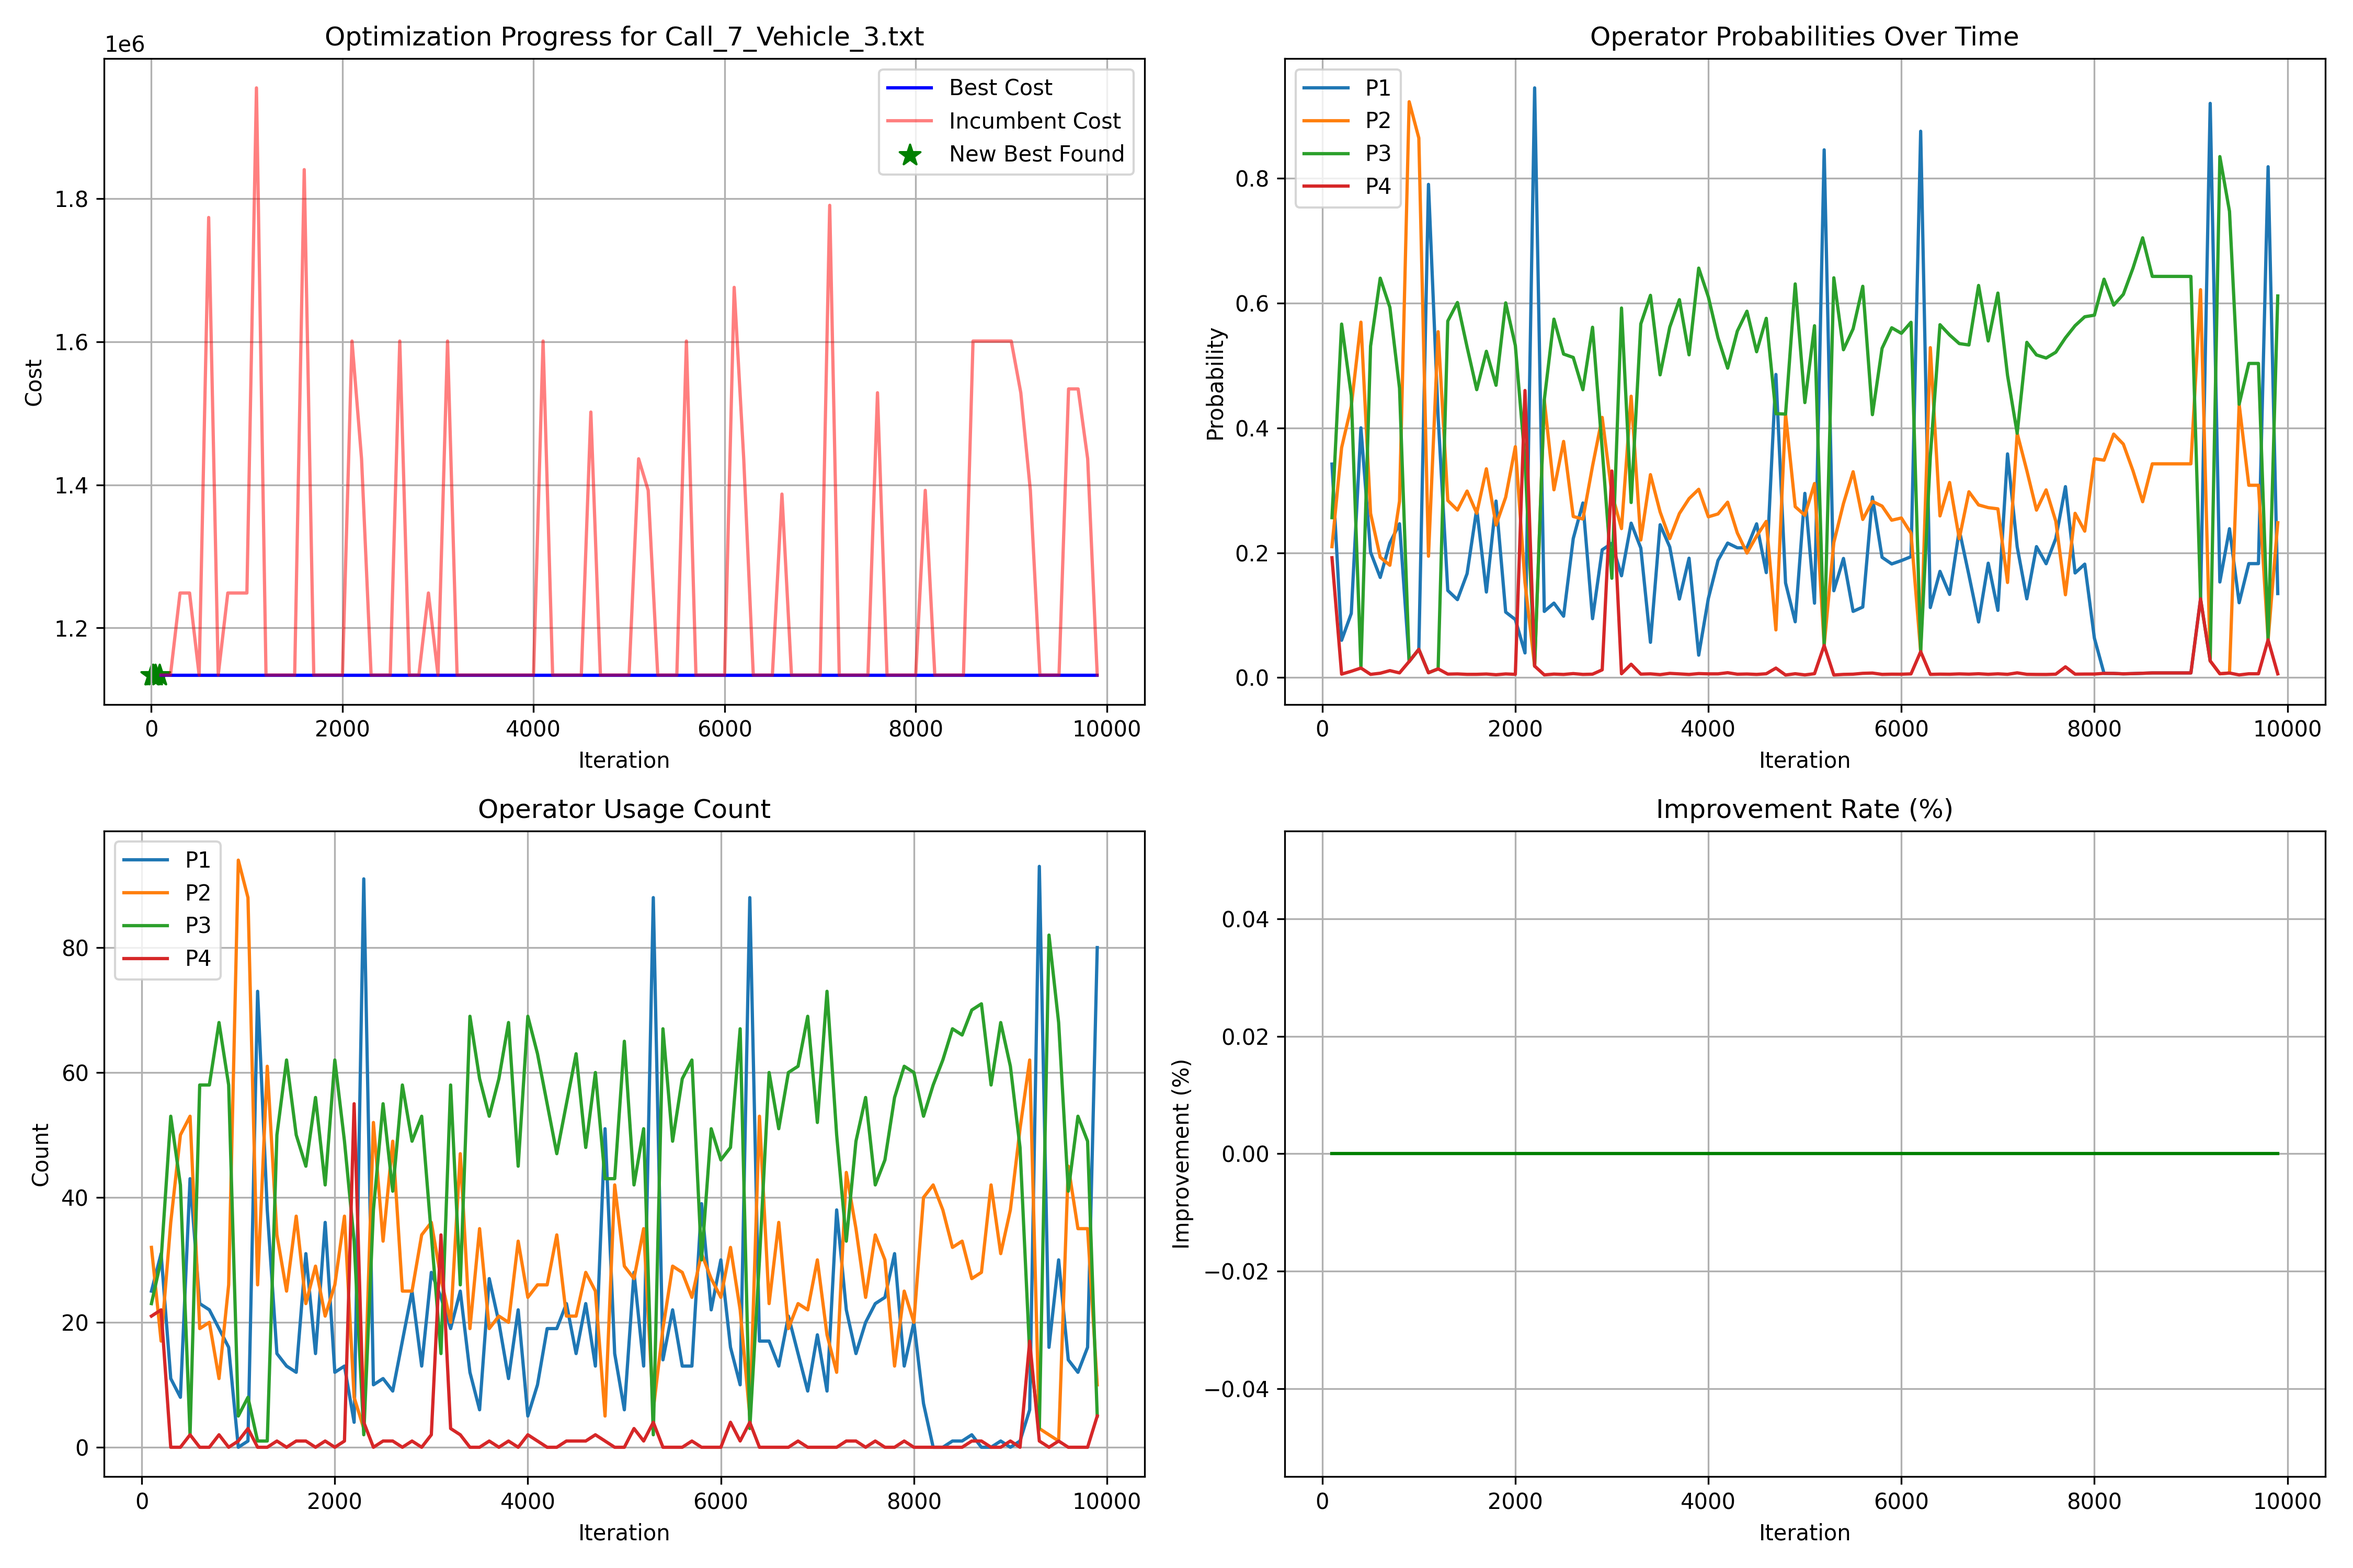
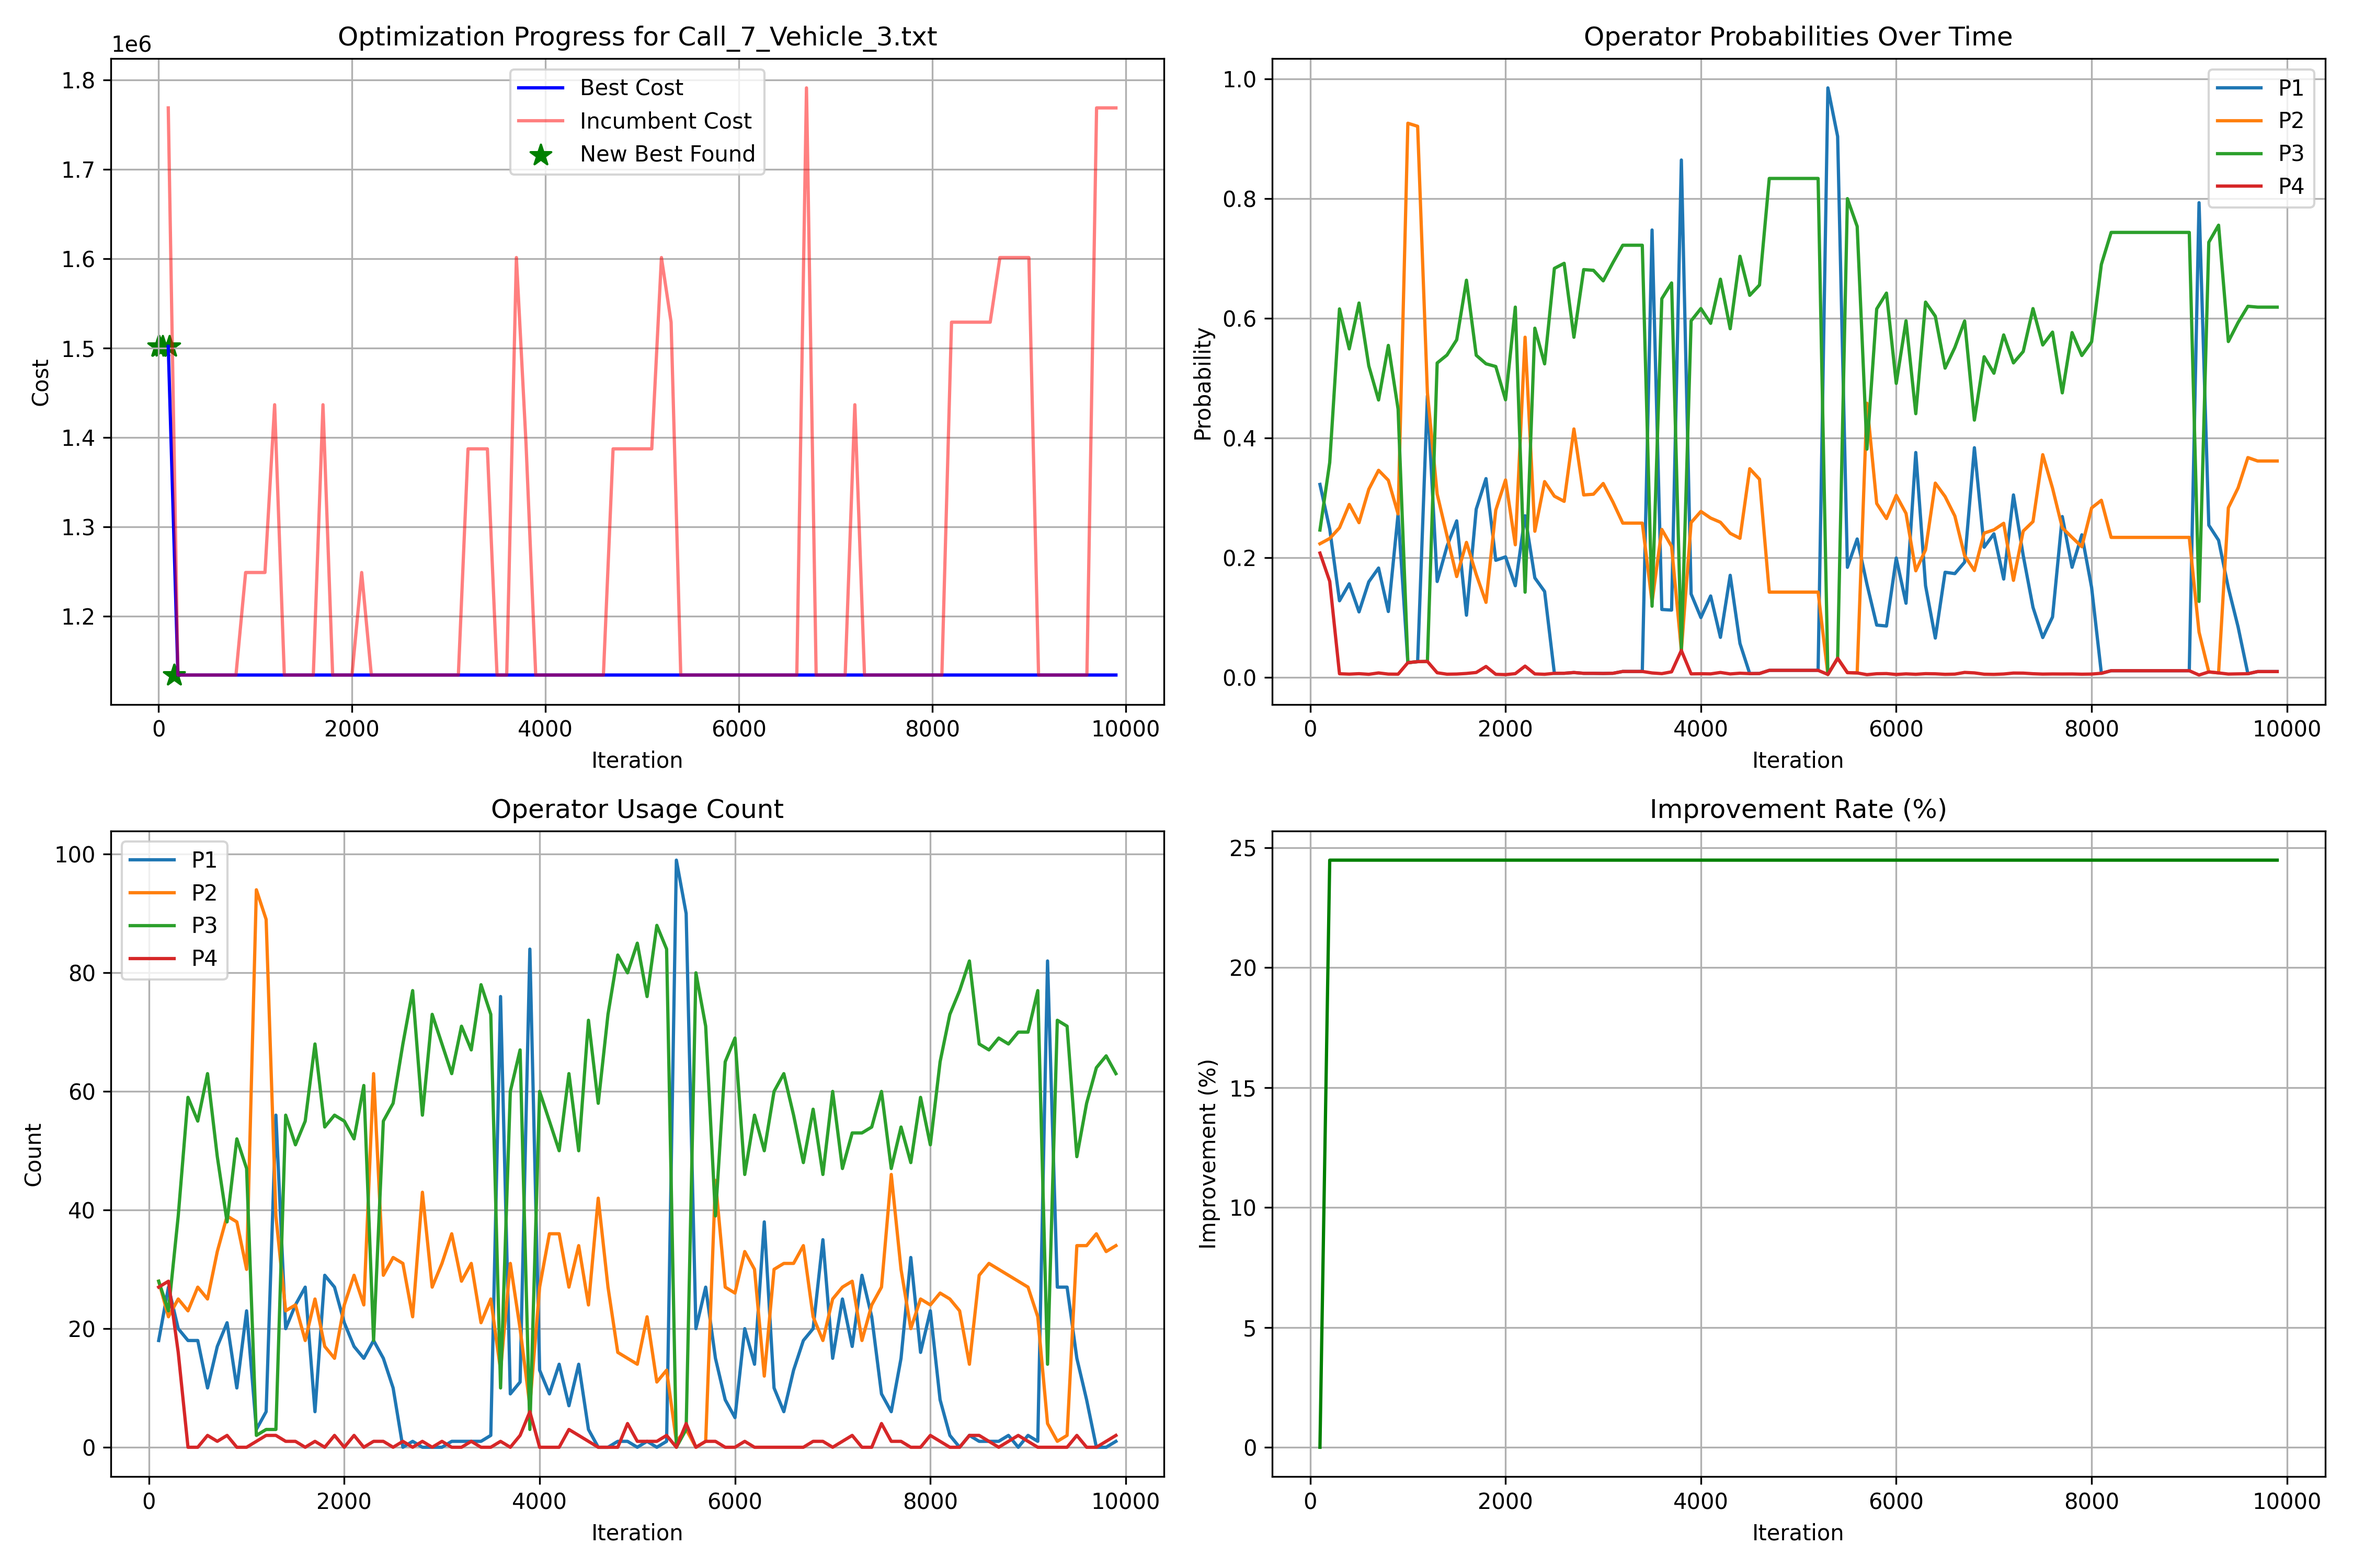
updated

diff --git a/assignment_5.py b/assignment_5.py
@@ -4,7 +4,87 @@ from pdp_utils.Utils import *
 import matplotlib.pyplot as plt
 import numpy as np
 
-
+def vehicle_feasibility_check(vehicle_plan, vehicle_index, problem):
+    """
+    Check if a specific vehicle's plan is feasible
+    
+    :param vehicle_plan: List of calls (without zeros) assigned to this vehicle
+    :param vehicle_index: Index of the vehicle to check
+    :param problem: The pickup and delivery problem object
+    :return: tuple (is_feasible, reason)
+    """
+    # Extract necessary problem parameters
+    Cargo = problem['Cargo']
+    TravelTime = problem['TravelTime']
+    FirstTravelTime = problem['FirstTravelTime']
+    VesselCapacity = problem['VesselCapacity']
+    LoadingTime = problem['LoadingTime']
+    UnloadingTime = problem['UnloadingTime']
+    VesselCargo = problem['VesselCargo']
+    
+    # Convert plan to 0-indexed calls
+    vehicle_plan = [call - 1 for call in vehicle_plan if call != 0]
+    NoDoubleCallOnVehicle = len(vehicle_plan)
+    
+    # If the plan is empty, it's trivially feasible
+    if NoDoubleCallOnVehicle == 0:
+        return True, 'Feasible'
+    
+    # Check if all calls can be handled by this vehicle
+    if not np.all(VesselCargo[vehicle_index, vehicle_plan]):
+        return False, 'Incompatible vessel and cargo'
+    
+    # Calculate load changes throughout the route
+    LoadSize = 0
+    currentTime = 0
+    sortRout = np.sort(vehicle_plan, kind='mergesort')
+    I = np.argsort(vehicle_plan, kind='mergesort')
+    Indx = np.argsort(I, kind='mergesort')
+    LoadSize -= Cargo[sortRout, 2]
+    LoadSize[::2] = Cargo[sortRout[::2], 2]
+    LoadSize = LoadSize[Indx]
+    
+    # Check if capacity is exceeded at any point
+    if np.any(VesselCapacity[vehicle_index] - np.cumsum(LoadSize) < 0):
+        return False, 'Capacity exceeded'
+    
+    # Set up time windows
+    Timewindows = np.zeros((2, NoDoubleCallOnVehicle))
+    Timewindows[0] = Cargo[sortRout, 6]
+    Timewindows[0, ::2] = Cargo[sortRout[::2], 4]
+    Timewindows[1] = Cargo[sortRout, 7]
+    Timewindows[1, ::2] = Cargo[sortRout[::2], 5]
+    Timewindows = Timewindows[:, Indx]
+    
+    # Get port indices
+    PortIndex = Cargo[sortRout, 1].astype(int)
+    PortIndex[::2] = Cargo[sortRout[::2], 0]
+    PortIndex = PortIndex[Indx] - 1
+    
+    # Calculate loading/unloading times
+    LU_Time = UnloadingTime[vehicle_index, sortRout]
+    LU_Time[::2] = LoadingTime[vehicle_index, sortRout[::2]]
+    LU_Time = LU_Time[Indx]
+    
+    # Calculate travel times
+    if NoDoubleCallOnVehicle > 1:
+        Diag = TravelTime[vehicle_index, PortIndex[:-1], PortIndex[1:]]
+        FirstVisitTime = FirstTravelTime[vehicle_index, int(Cargo[vehicle_plan[0], 0] - 1)]
+        RouteTravelTime = np.hstack((FirstVisitTime, Diag.flatten()))
+    else:
+        # Only one call
+        FirstVisitTime = FirstTravelTime[vehicle_index, int(Cargo[vehicle_plan[0], 0] - 1)]
+        RouteTravelTime = np.array([FirstVisitTime])
+    
+    # Check time window constraints
+    ArriveTime = np.zeros(NoDoubleCallOnVehicle)
+    for j in range(NoDoubleCallOnVehicle):
+        ArriveTime[j] = max(currentTime + RouteTravelTime[j], Timewindows[0, j])
+        if ArriveTime[j] > Timewindows[1, j]:
+            return False, f'Time window exceeded at call {vehicle_plan[j] + 1}'
+        currentTime = ArriveTime[j] + LU_Time[j]
+    
+    return True, 'Feasible'
 
 """
 This function returns the vehicle ranges 
@@ -92,7 +172,7 @@ def soft_greedy_reinsert(calls, prob, removed_sol):
 """
 This reinsertion function chooses a random vehicle, then finds the best position to place the pickup and delivery for all calls
 """
-def soft_greedy_reinsert_2(calls, prob, removed_sol):
+def soft_greedy_reinsert_2(calls, prob, removed_sol, feasibility_cache, cost_cache):
     best_sol = removed_sol
     vehicle_ranges = zero_pos(removed_sol)
     vehicles_n = prob['n_vehicles']
@@ -121,22 +201,35 @@ def soft_greedy_reinsert_2(calls, prob, removed_sol):
             
         # PICKUP
             for p_pos in range(start, end + 1):
-                temp_p_sol = best_sol.copy()
-                temp_p_sol.insert(p_pos, call)
-                
                 # DELIVERY
                 for d_pos in range(p_pos + 1, end + 2):
-                    temp_d_sol = temp_p_sol.copy()
-                    temp_d_sol.insert(d_pos, call)
+                    temp_sol = best_sol.copy()
+                    temp_sol.insert(p_pos, call)
+                    temp_sol.insert(d_pos, call)
                     
-                    feasibility, _ = feasibility_check(temp_d_sol, prob)
+                    new_vehicle_ranges = zero_pos(temp_sol)
+                    v_start, v_end = list(new_vehicle_ranges)[selected_vehicle] # HER MÅ JEG KANSJE BRUKE ENUMERATE?
+                    vehicle_plan = temp_sol[v_start:v_end]
+                    
+                    sol_key = tuple(temp_sol)
+                    
+                    if sol_key in feasibility_cache:
+                        feasibility, _ = feasibility_cache[sol_key]
+                    else:
+                        # feasibility, _ = feasibility_check(temp_sol, prob)
+                        feasibility, _ = vehicle_feasibility_check(vehicle_plan, selected_vehicle, prob)
+                        feasibility_cache[sol_key] = (feasibility, _)
                     
                     if feasibility:
-                        temp_cost = cost_function(temp_d_sol, prob)
-                        
-                        if temp_cost < new_best_cost:
-                            new_best_sol = temp_d_sol
-                            new_best_cost = temp_cost
+                        if sol_key in cost_cache:
+                            temp_cost = cost_cache[sol_key]
+                        else:
+                            temp_cost = cost_function(temp_sol, prob)
+                            cost_cache[sol_key] = temp_cost
+                    
+                    if temp_cost < new_best_cost:
+                        new_best_sol = temp_sol
+                        new_best_cost = temp_cost
             
         if call in new_best_sol:
             best_sol = new_best_sol.copy()
@@ -163,6 +256,10 @@ def k_regret(calls, prob, removed_sol, feasibility_cache, cost_cache):
     while remaining_calls:
         k_calls = []
         vehicle_ranges = zero_pos(best_sol)
+        # print(f"vehicle_ranges: {vehicle_ranges}")
+        # print(f"vehicle range 0 {vehicle_ranges[0]}")
+        # print(f"vehicle start: {vehicle_ranges[3][0]} and end: {vehicle_ranges[1][1]}")
+        # print(f"solution intervall in dummy: {best_sol[vehicle_ranges[3][0]:vehicle_ranges[3][1]]}")
         new_calls = [call for call in calls if call in remaining_calls]
         
         for call in new_calls:
@@ -187,12 +284,18 @@ def k_regret(calls, prob, removed_sol, feasibility_cache, cost_cache):
                         temp_sol.insert(p_pos, call)
                         temp_sol.insert(d_pos, call)
                         
+                        new_vehicle_ranges = zero_pos(temp_sol)
+                        v_start= new_vehicle_ranges[vehicle_index][0]
+                        v_end = new_vehicle_ranges[vehicle_index][1]
+                        vehicle_plan = temp_sol[v_start:v_end]
+                        
                         sol_key = tuple(temp_sol)
                         
                         if sol_key in feasibility_cache:
                             feasibility, _ = feasibility_cache[sol_key]
                         else:
-                            feasibility, _ = feasibility_check(temp_sol, prob)
+                            # feasibility, _ = feasibility_check(temp_sol, prob)
+                            feasibility, _ = vehicle_feasibility_check(temp_sol[v_start : v_end], vehicle_index, prob)
                             feasibility_cache[sol_key] = (feasibility, _)
                         
                         if feasibility:
@@ -429,7 +532,7 @@ def dummy_removal(prob, sol, reinsert, feasibility_cache, cost_cache):
         if len(calls_list) < 10:
             calls_n = np.random.randint(1, len(calls_list) + 1)
         else:
-            calls_n = np.random.randing(2,10)
+            calls_n = np.random.randint(2,10)
     
     calls_to_reinsert = random.sample(range(1, len(calls_list) + 1), calls_n)
     

diff --git a/main_5.py b/main_5.py
@@ -7,8 +7,8 @@ import os
 import gc
 
 files = [
-        'Call_7_Vehicle_3.txt', 
-        # 'Call_18_Vehicle_5.txt',
+        # 'Call_7_Vehicle_3.txt', 
+        'Call_18_Vehicle_5.txt',
         # 'Call_35_Vehicle_7.txt',
         # 'Call_80_Vehicle_20.txt',
         # 'Call_130_Vehicle_40.txt',
